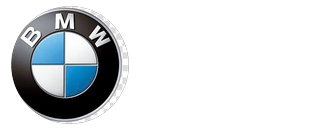
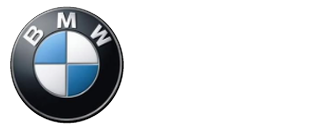
feat: apply updated 3D BMW roundel asset with horizontal lockup

Changed region(s): [[0.0288, 0.0308, 0.4313, 0.9538]]

diff --git a/index.html b/index.html
@@ -190,7 +190,7 @@
           <img src="assets/images/brands/tesla.svg?v=5" alt="Tesla" class="client-logo-img" loading="lazy">
         </div>
         <div class="brand-item" title="BMW Manufacturing">
-          <img src="assets/images/brands/bmw.png?v=6" alt="BMW" class="client-logo-img" loading="lazy">
+          <img src="assets/images/brands/bmw.png?v=7" alt="BMW" class="client-logo-img" loading="lazy">
         </div>
         <div class="brand-item" title="Volkswagen Operations">
           <img src="assets/images/brands/volkswagen.png?v=6" alt="Volkswagen" class="client-logo-img" loading="lazy">
